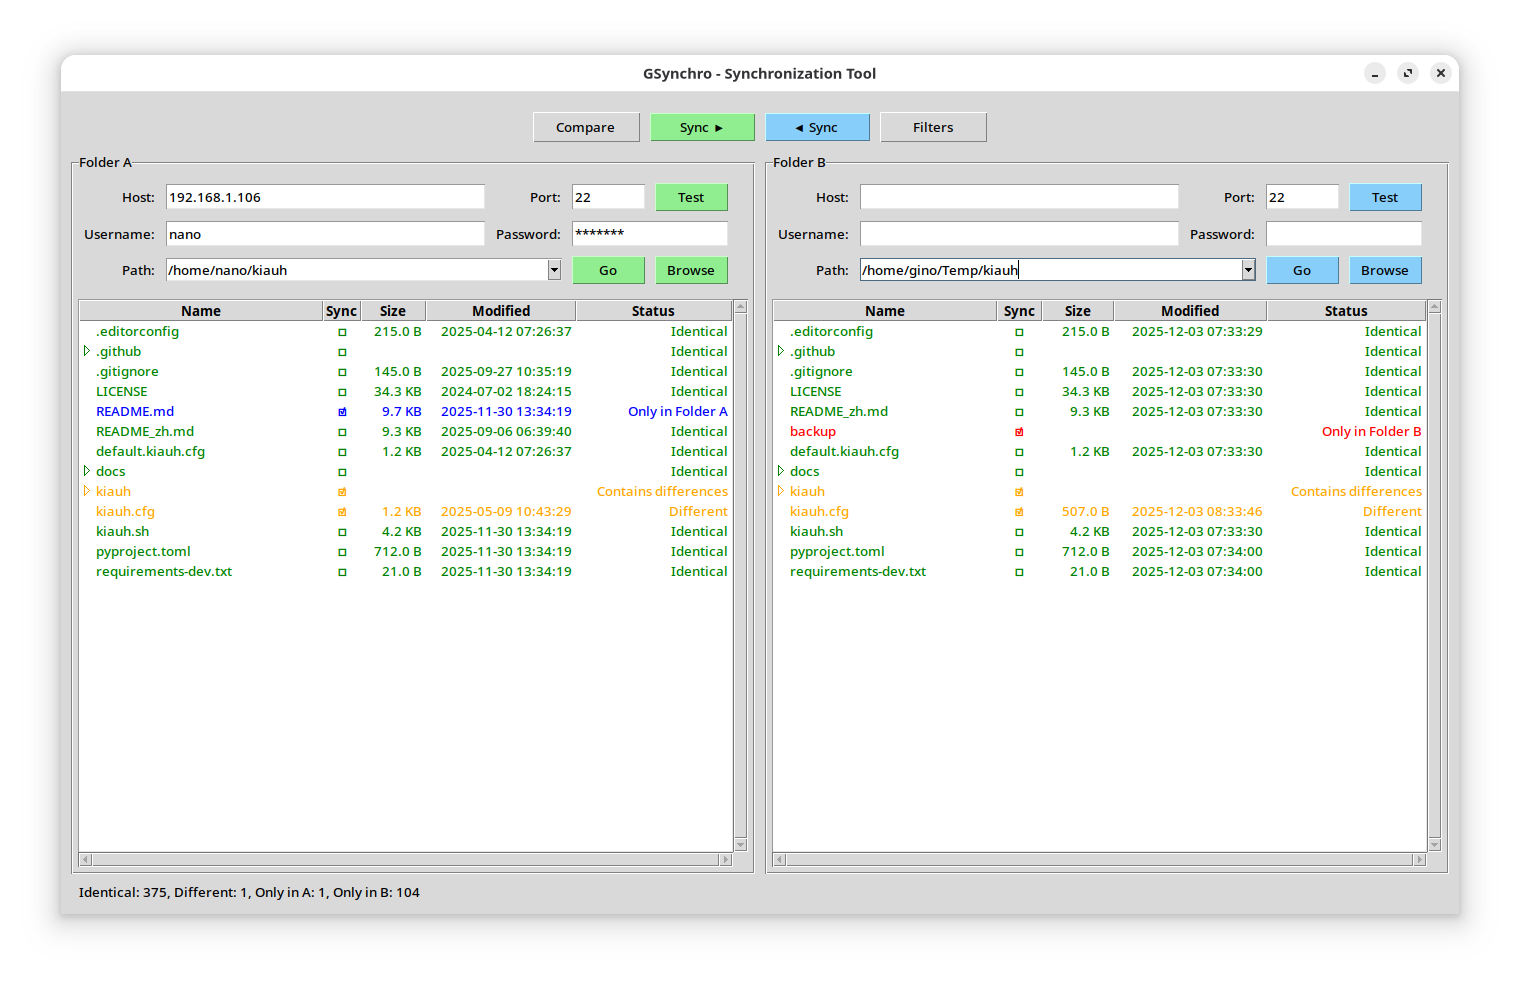
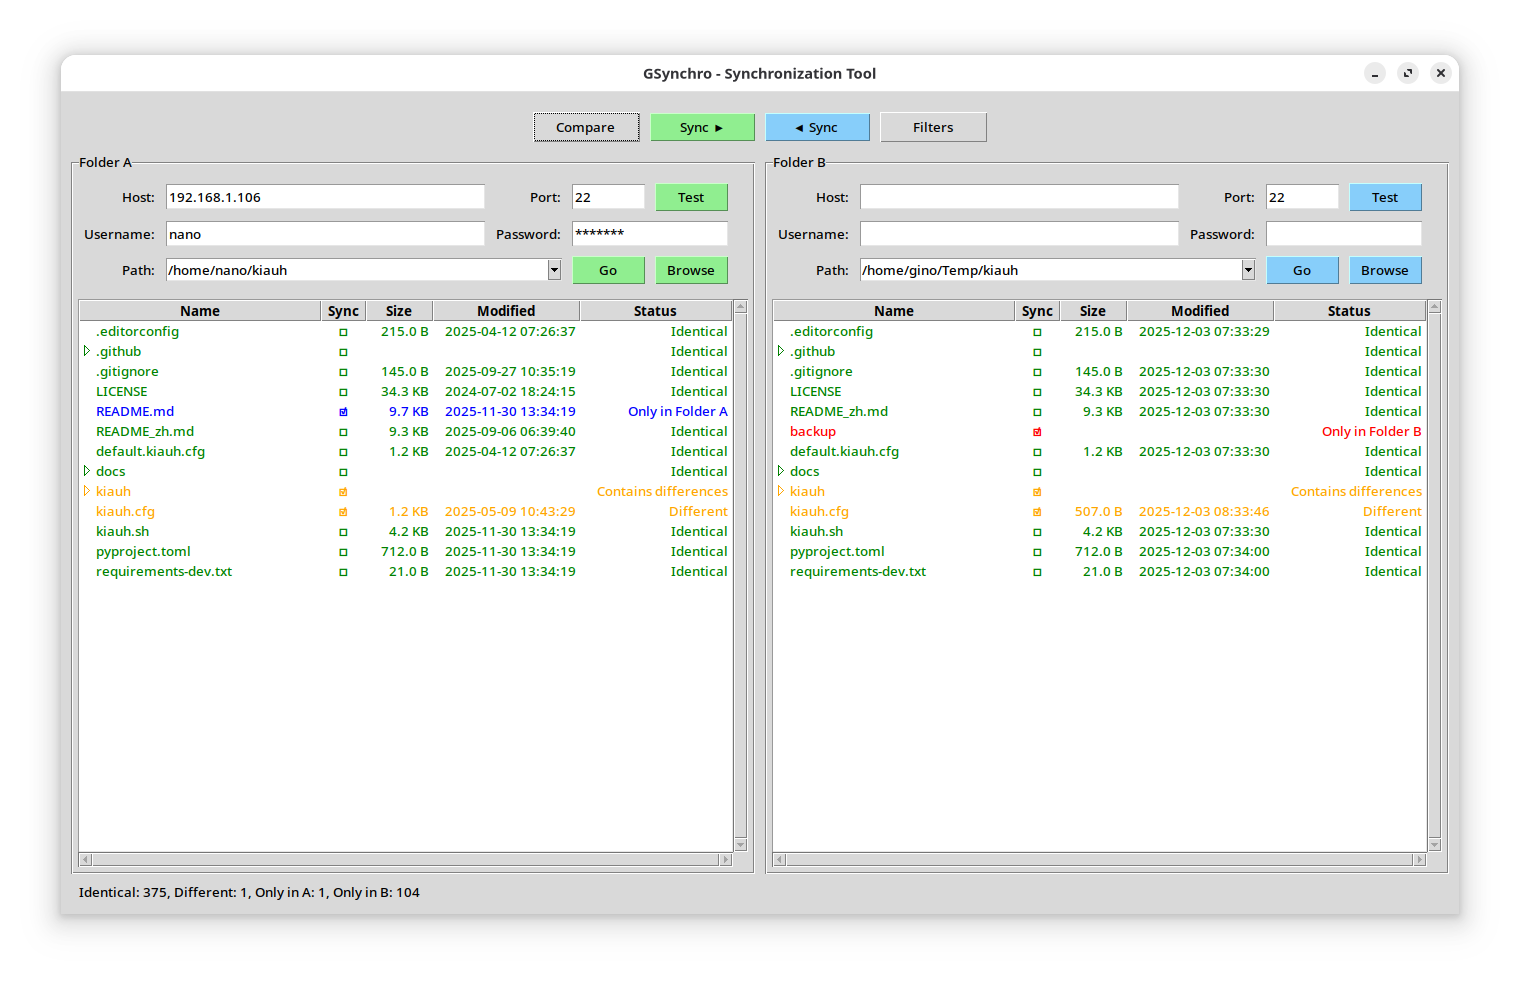
refactor: Minor update

diff --git a/g_synchro.py b/g_synchro.py
@@ -2230,11 +2230,12 @@ class GSynchro:
 
     def _adjust_tree_column_widths(self, tree: ttk.Treeview):
         """Adjust column widths to fit content."""
-        self.log("Adjusting column widths for tree...")
+        panel_name = "A" if tree is self.tree_a else "B"
+        self.log(f"Adjusting column widths for folder {panel_name} tree...")
         try:
             # Use a default font for measuring if a specific one isn't set
             font = tkfont.Font()
-            padding = 20  # Extra space for padding
+            padding = 10  # Extra space for padding
 
             # Adjust data columns
             columns = tree["columns"]
